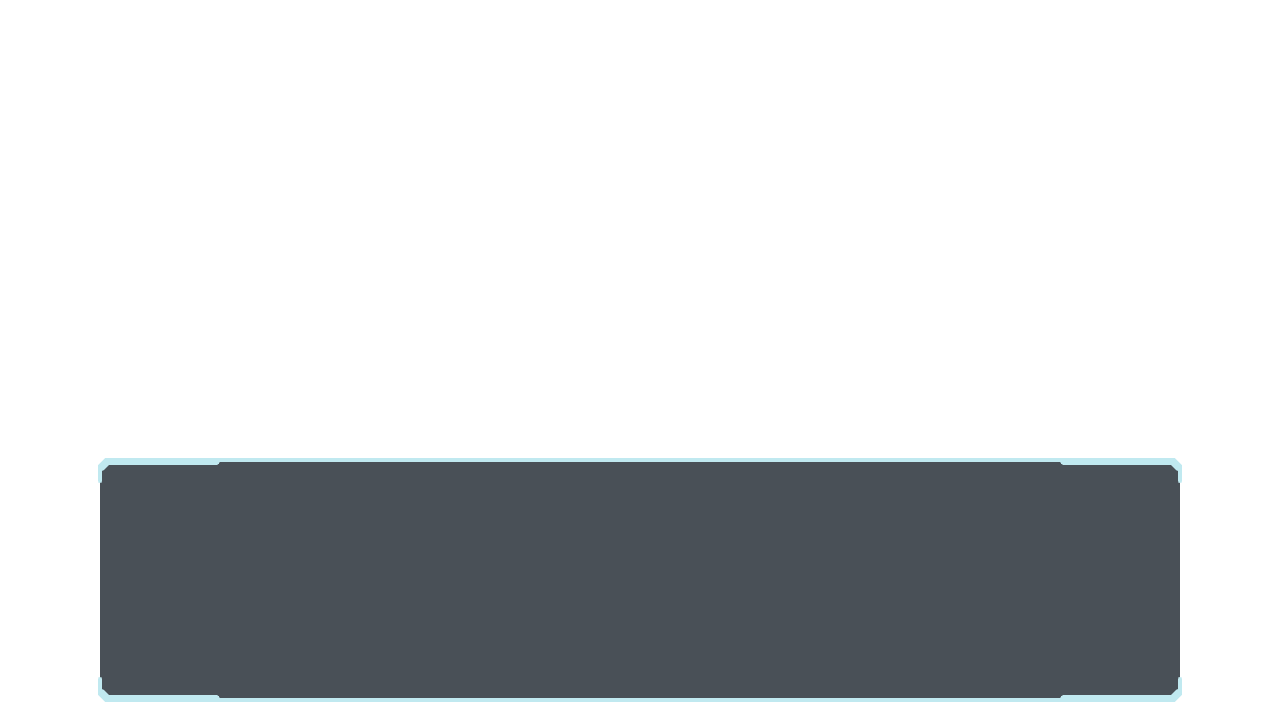
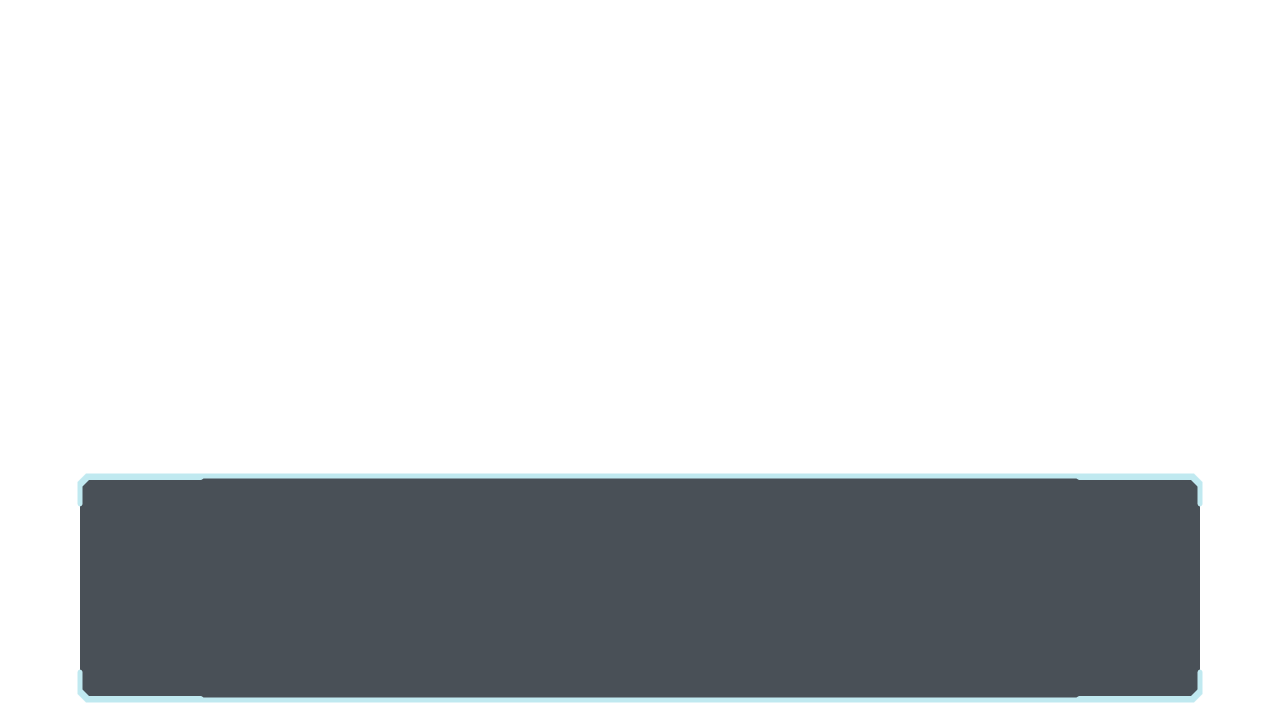
use image.get to display box part of textFrame.png

Changed region(s): [[0.0625, 0.6111, 0.9375, 0.9778], [0.8125, 0.9472, 0.8438, 0.9778], [0.1562, 0.9472, 0.1875, 0.9778]]

diff --git a/sketch.js b/sketch.js
@@ -32,10 +32,12 @@ let voice
 let p5amp
 
 let dialogBox
-let mode_2D = true
+let mode_2D = true /* test in 2D? */
 
 let passages // our json file input
 let lastPassageAdvanceTime = 0 // when was the last passage advance?
+
+let finishedTextFrame; /* load a rendered textFrame */
 
 function preload() {
     // font = loadFont('data/giga.ttf') // doesn't work due to textWidth issues
@@ -44,8 +46,8 @@ function preload() {
     // font = loadFont('data/notjustgroovy.ttf')
     font = loadFont('data/meiryo.ttf')
     voice = loadSound('data/adam.mp3')
-    passages = loadJSON("passages.json")
-
+    passages = loadJSON('passages.json')
+    finishedTextFrame = loadImage('data/textFrame.png')
 }
 
 /* populate an array of passage text */
@@ -55,7 +57,7 @@ let highlightList = [] // a list of tuples specifying highlights and indexes
 let msPerPassage = 0 // how long to wait before advancing a passage
 
 function setup() {
-    noSmooth()
+    // noSmooth()
 
     if (mode_2D) {
         createCanvas(1280, 720)
@@ -96,13 +98,23 @@ function draw() {
     if (mode_2D) {
         dialogBox.render2DTextBox(this)
 
+        /**
+         *  create a cropped version of the 1280x720 textFrame. this is the
+         *  frame itself without the rest of the transparent background. Use
+         *  image.get(x, y, w, h)
+         */
+        const STROKE_WIDTH_ADJUST = 20;
+        let frameCrop = finishedTextFrame.get(
+            dialogBox.LEFT_MARGIN,
+            height - dialogBox.BOTTOM_MARGIN - dialogBox.HEIGHT,
+            dialogBox.boxWidth+STROKE_WIDTH_ADJUST,
+            dialogBox.HEIGHT
+            )
+
+        image(frameCrop, mouseX, mouseY)
+
         noStroke()
         fill(0, 0, 100)
-        // text(" ", 190, 200)
-        // text("A", 200, 200)
-        // text("D", 210, 200)
-        // text("A", 220, 200)
-        // text("M", 230, 200)
         dialogBox.renderText()
     } else {
         // otherwise, we go into 3D and load our transparent, generated dialog
